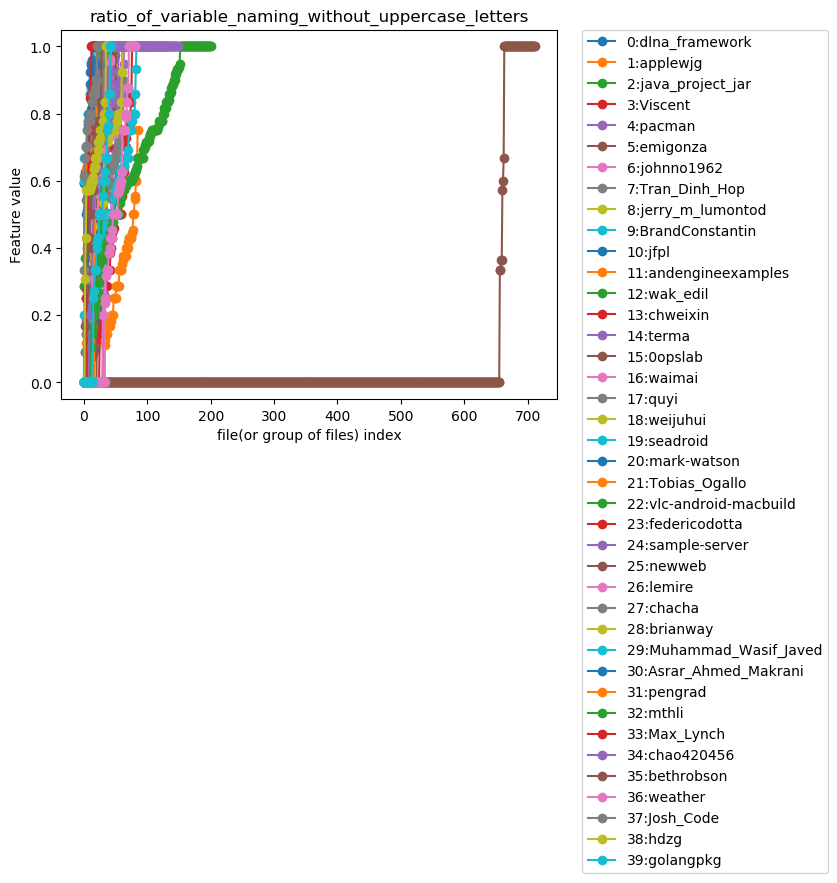
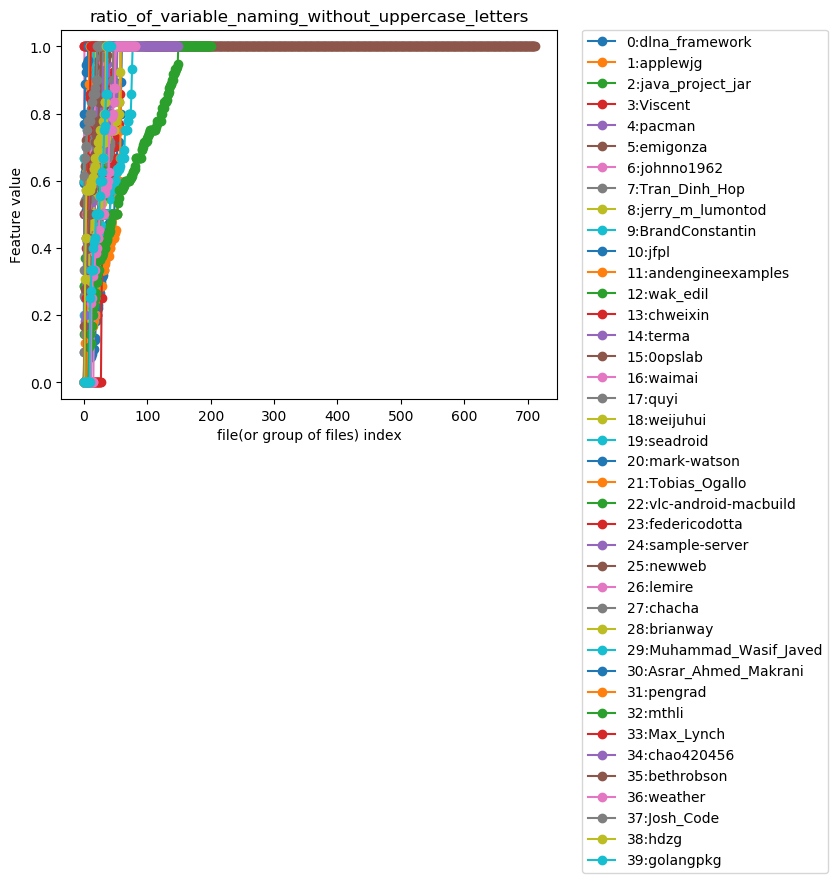
a / 0 = 1 is worse, early stopping is 700. but now its 71% acc, not 75%.

Changed region(s): [[0.0932, 0.0306, 0.6213, 0.4587], [0.2485, 0.0306, 0.6213, 0.0917], [0.5902, 0.1223, 0.6213, 0.2446]]

diff --git a/psob_authorship/experiment/one_split_fit.py b/psob_authorship/experiment/one_split_fit.py
@@ -13,7 +13,7 @@ from psob_authorship.model.Model import Model
 
 CONFIG = {
     'experiment_name': os.path.basename(__file__).split('.')[0],
-    'experiment_notes': "change: a / 0 = 0",
+    'experiment_notes': "change: a / 0 = 1 with 700 early stopping rounds",
     'number_of_authors': 40,
     'labels_features_common_name': "../calculated_features/extracted_for_each_file",
     'metrics': [0, 1, 2, 3, 4, 5, 6, 7, 8, 9, 10, 11, 12, 13, 14, 15, 16, 17, 18],

diff --git a/psob_authorship/features/extract_features.py b/psob_authorship/features/extract_features.py
@@ -97,4 +97,4 @@ def save_extracted_features(filepath: str, features: torch.Tensor, labels: torch
 
 
 if __name__ == '__main__':
-    extract_with_zero_default_values_for_each_file()
+    extract_with_one_default_values_for_each_file()
